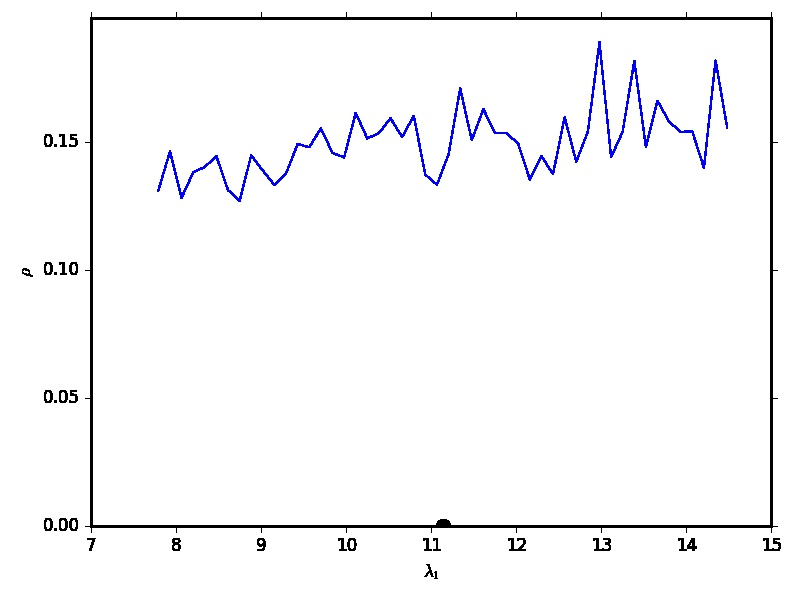
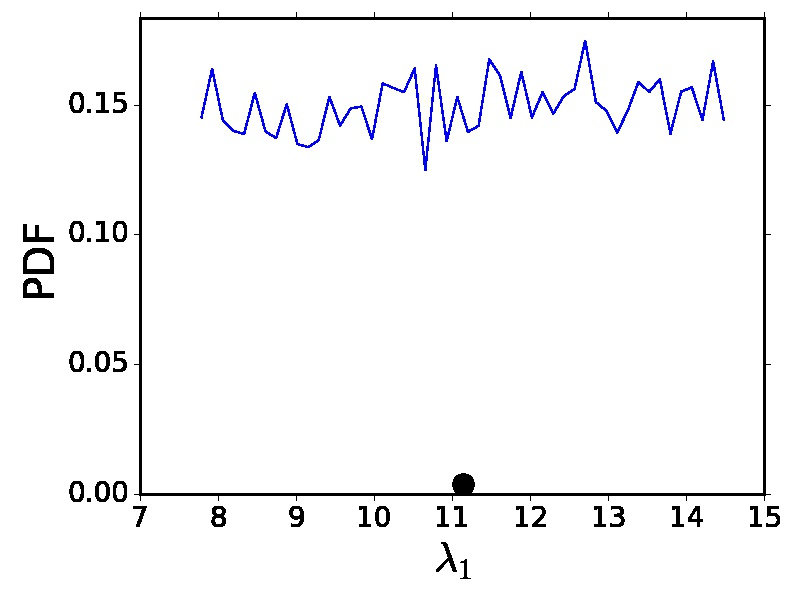
Updated plotting and 6wks_4vars.py

Changed region(s): [[0.0312, 0.03, 0.9688, 0.96], [0.875, 0.24, 0.9062, 0.27], [0.6562, 0.27, 0.6875, 0.3]]

diff --git a/bet/postProcess/plotP.py b/bet/postProcess/plotP.py
@@ -214,13 +214,17 @@ def plot_1D_marginal_probs(marginals, bins, sample_set,
             ax.plot(x_range, marginals[i]/(bins[i][1]-bins[i][0]))
             ax.set_ylim([0, 1.05*np.max(marginals[i]/(bins[i][1]-bins[i][0]))])
             if lam_ref is not None:
-                ax.plot(lam_ref[i], 0.0, 'ko', markersize=10)
+                ax.plot(lam_ref[i], 0.02*1.05*np.max(marginals[i]/(bins[i][1]-bins[i][0])), 'ko', markersize=15)
             if lambda_label is None:
                 label1 = r'$\lambda_{' + str(i+1) + '}$'
             else:
                 label1 = lambda_label[i]
-            ax.set_xlabel(label1) 
-            ax.set_ylabel(r'$\rho$')
+            #ax.set_xlabel(label1) 
+            #ax.set_ylabel(r'$\rho$')
+            ax.set_xlabel(label1, fontsize=30) 
+            ax.set_ylabel(r'PDF', fontsize=30)
+            ax.tick_params(axis='both', which='major', 
+                           labelsize=20)
             fig.savefig(filename + "_1D_" + str(i) + file_extension,
                     transparent=True) 
             if interactive:
@@ -526,8 +530,9 @@ def plot_2D_marginal_contours(marginals, bins, sample_set,
             ax.set_xlabel(label1, fontsize=30) 
             ax.set_ylabel(label2, fontsize=30)
             ax.tick_params(axis='both', which='major', 
-                           labelsize=contour_font_size)
-            plt.clabel(quadmesh, fontsize=24, inline=1, style='sci')
+                           labelsize=20)
+            plt.clabel(quadmesh, fontsize=contour_font_size, 
+                       inline=1, style='sci')
             
 #            label_cbar = r'$\rho_{\lambda_{' + str(i+1) + '}, ' 
 #            label_cbar += r'\lambda_{' + str(j+1) + '}' + '}$ (Lebesgue)'

diff --git a/examples/Yongcheng/3 variables code---no tf and D/6wks_4vars.py b/examples/Yongcheng/3 variables code---no tf and D/6wks_4vars.py
@@ -79,6 +79,7 @@ ref_params = np.array([[10.82, 140.37, 1.678, 1.5],
                        [12.8, 105.05, 1.736, 1.5],
                        [11.25, 83.79, 2.209, 1.5]])
 
+param_names = [r'$f_c^\prime$', r'$E_f$', r'$\epsilon_{fu}$', r'$t_f$', r'$D$']
 # calculate 2d marginal probs
 (bins, marginals2D) = plotP.calculate_2D_marginal_probs(input_samples,
                                                         nbins = 50)
@@ -96,8 +97,9 @@ marginals2D = plotP.smooth_marginals_2D(marginals2D, bins,
 plotP.plot_2D_marginal_contours(marginals2D, bins, input_samples, 
                              lam_ref = ref_param,
                              lam_refs = ref_params,
+                             lambda_label = param_names,
                              contour_num = 10,
-                             contour_font_size = 20,
+                             contour_font_size = 15,
                              filename = "Deflection",
                              file_extension = ".jpg")
 
@@ -116,6 +118,7 @@ marginals1D = plotP.smooth_marginals_1D(marginals1D, bins,
 # plot 1d marginal probs
 plotP.plot_1D_marginal_probs(marginals1D, bins, input_samples, 
                              lam_ref = ref_param,
+                             lambda_label = param_names,
                              filename = "Deflection",
                              file_extension = ".jpg")
 
